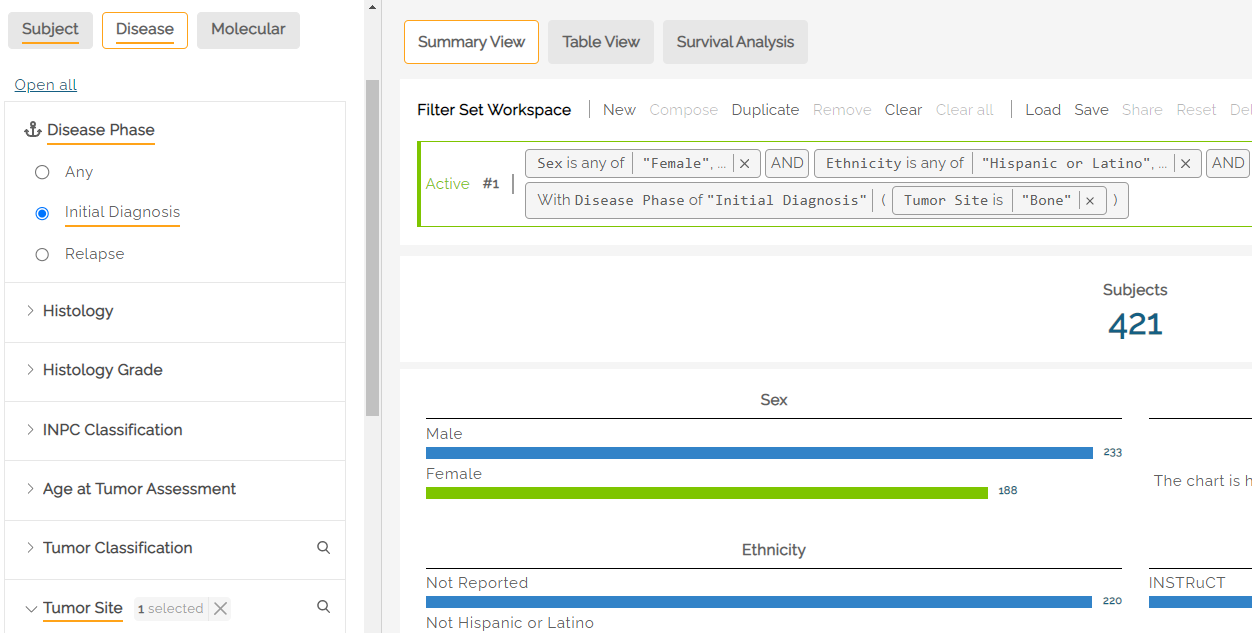
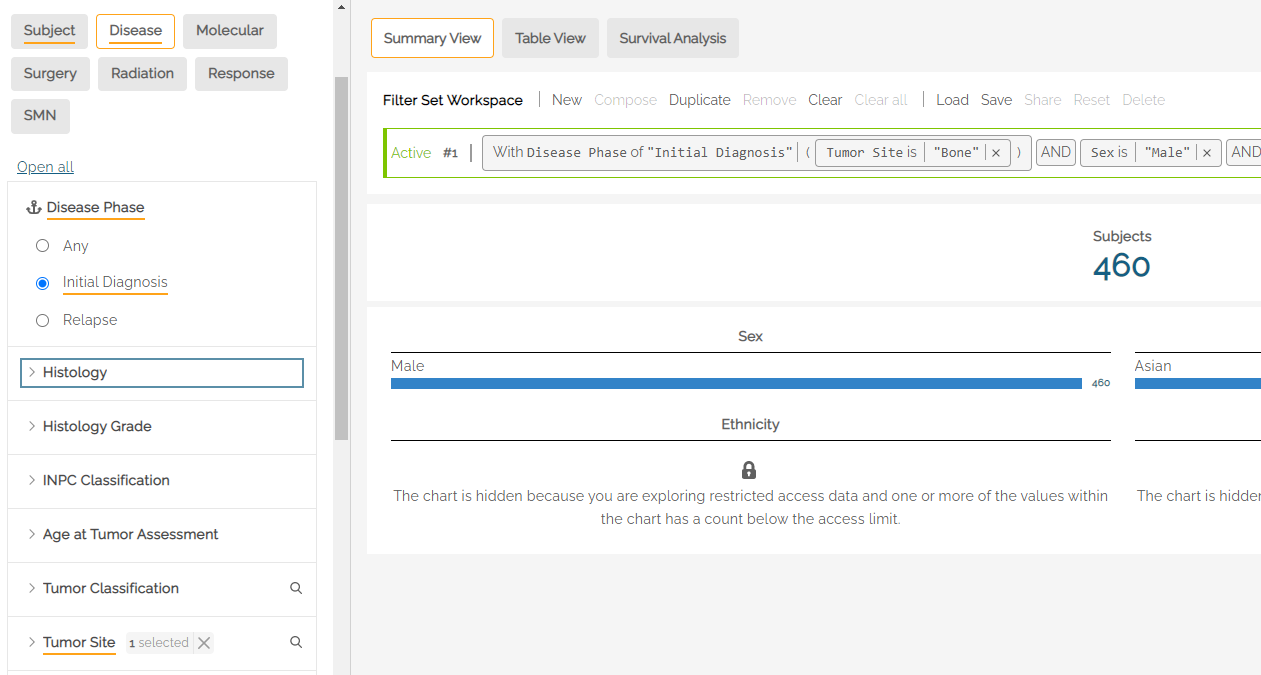
Filter categories and Explore In
This revision includes replacement screenshots for filter categories to include Surgery, Radiation, Response, and SMN. Also, added a section on the Explore in functionality.

diff --git a/docs/DataPortalUserGuide.md b/docs/DataPortalUserGuide.md
@@ -175,7 +175,7 @@ Once selected, the main page will show the filtered data set. To clear the searc
 
 #### Selected Filters
 
-An underline in the filter name indicates that filters are active within that tab. In the below example, the **Subject**, **Disease** and **Molecular** tabs have active filters. Clicking into the tabs will show which filters are selected (also underlined). In the example below, **Initial Diagnosis** is selected, along with **Tumor Site** from within the **Disease** tab.
+An underline in the filter name indicates that filters are active within that tab. In the below example, the **Subject** and **Disease** tabs have active filters. Clicking into the tabs will show which filters are selected (also underlined). In the example below, **Initial Diagnosis** is selected, along with **Tumor Site** from within the **Disease** tab.
 
 ![Summary View](img/imageW7.png)
 
@@ -250,6 +250,21 @@ Note: when using a Composed filter, the left filter panel becomes inactivated.
 
 ![Composed filter warning](img/composed_filter_warning.png)
 
+### Explore in An External Data Commons
+
+Some subjects within the PCDC can be further explored in external Data Commons'. Currently, Gabriela Miller Kids First and the Genomic Data Commons are available for exploration. 
+
+**To explore subjects within an external commons:**
+
+1) Create a data set using the Filter Set Workspace. It is recommended users save their data set before using the "Explore in" function. 
+
+2) Click on the **Explore in** button in the upper right part of the Exploration page. A pop-up window will open. The drop-down menu is used to select the external data commons. 
+
+![Explore in](img/explore_in.png)
+
+3) For data sets with fewer than 40 subjects, the **Open in new tab** button will be active. Clicking on the button will take the user to the selected website where the subjects will be available for analysis. 
+
+4) Data sets with more than 40 subjects will require a manifest file to be downloaded to the user's computer and uploaded to the target data commons. The "Open in new tab" button will not be active until the user downloads the manifest. Follow the instructions on the target website to upload the manifest. 
 
 ### Survival Analysis
 
